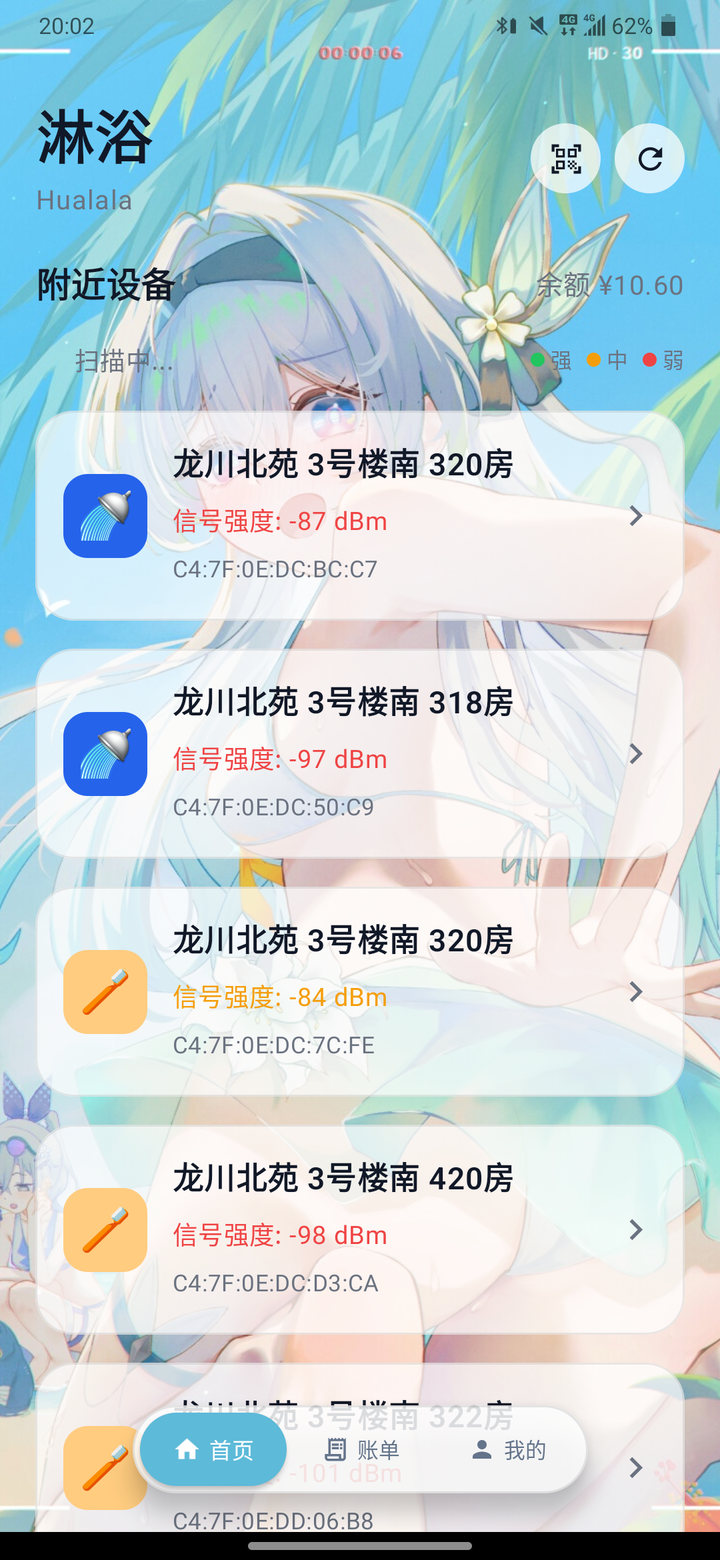
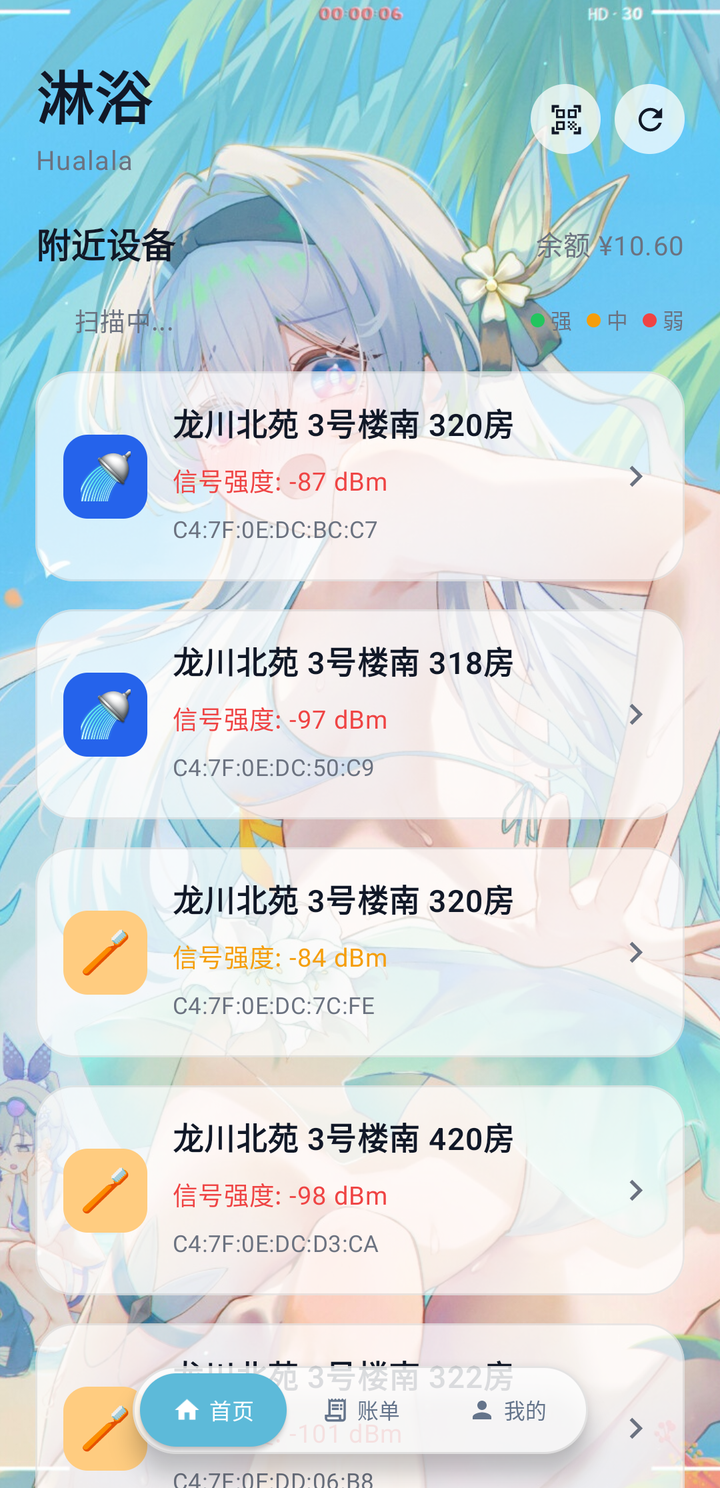
文档：背景装扮展示图换成新版，背景设置移到表格最左

diff --git a/README.md b/README.md
@@ -18,9 +18,9 @@
 
 把喜欢的图片设成界面背景，App 会自动从图里提取主题色作为强调色；主页与使用页各存一套，互不影响。
 
-| 主页 | 使用页 | 背景设置 |
+| 背景设置 | 主页 | 使用页 |
 |---|---|---|
-| <img src="assets/bg_home.png" width="230" alt="主页背景"> | <img src="assets/bg_shower.png" width="230" alt="使用页背景"> | <img src="assets/bg_settings.png" width="230" alt="背景设置"> |
+| <img src="assets/bg_settings.png" width="230" alt="背景设置"> | <img src="assets/bg_home.png" width="230" alt="主页背景"> | <img src="assets/bg_shower.png" width="230" alt="使用页背景"> |
 
 > 使用页套用自定义背景后不再显示设备 emoji——背景图本身就是画面主体。
 
